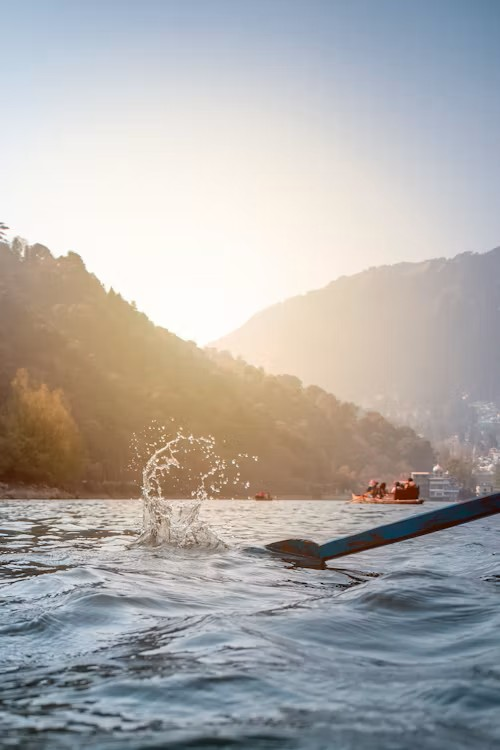
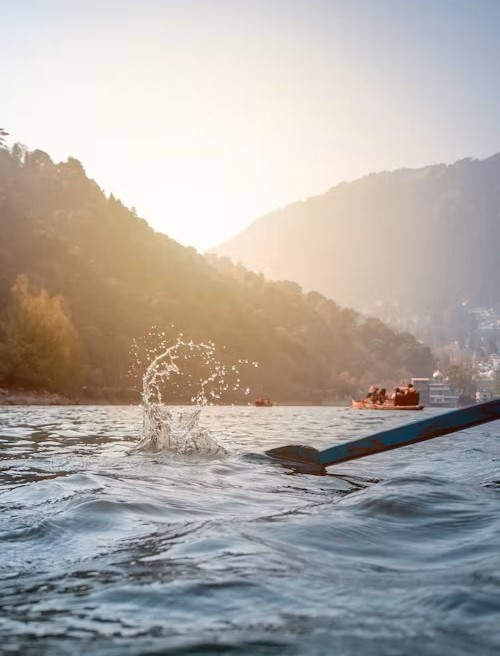
changed hero img contact page

diff --git a/wwr/contact.html b/wwr/contact.html
@@ -80,24 +80,27 @@
                     <button type="submit">Get in touch</button>
                 </form>
             </div>
-        </div>
 
-        <!-- EMPLOYEE PICTURE-->
-        <section class="history ">
-            <h2>We are here to serve you</h2>
-            <figure>
-                <img src="images/employee-1.jpg" alt="Employee 1 a girl employee">
-                <figcaption>Constance Jhonson - Guide</figcaption>
-            </figure>
-            <figure>
-                <img src="images/employee-3.jpg" alt="happy employee in the river">
-                <figcaption>Emily Mayers - Lead guide</figcaption>
-            </figure>
-            <figure>
-                <img src="images/hero-img/employee-2.jpg" alt="male employee in front of the river">
-                <figcaption>John Stone - Director</figcaption>
-            </figure>
-        </section>
+            <div class="move">
+                <!-- EMPLOYEE PICTURE-->
+                <section class="history hhhhhh">
+                    <h2>We are here to serve you</h2>
+                    <figure>
+                        <img src="images/employee-1.jpg" alt="Employee 1 a girl employee">
+                        <figcaption>Constance Jhonson - Guide</figcaption>
+                    </figure>
+                    <figure>
+                        <img src="images/employee-3.jpg" alt="happy employee in the river">
+                        <figcaption>Emily Mayers - Lead guide</figcaption>
+                    </figure>
+                    <figure>
+                        <img src="images/hero-img/employee-2.jpg"
+                          alt="male employee in front of the river">
+                        <figcaption>John Stone - Director</figcaption>
+                    </figure>
+                </section>
+            </div>
+        </div>
     </main>
 
     <footer>

diff --git a/wwr/styles/rafting2.css b/wwr/styles/rafting2.css
@@ -158,7 +158,7 @@ header nav {
 .map,
 form {
     display: flex;
-    margin-top: 170px;
+    margin-top: 200px;
     position: relative;
     padding: 1rem;
     flex: 50%;
@@ -226,7 +226,7 @@ section h2 {
     text-align: left;
     padding: 16px;
     /*border: 1px solid var(--fourth-color);*/
-    background-color: var(--fifth-color);
+    background-color: var(--color-background);
     opacity: 0.9;
     width: 100%;
     display: grid;
@@ -266,4 +266,22 @@ footer img {
 
 .socialmedia a {
     text-decoration: none;
+}
+
+.hhhhhh {
+    position: relative;
+    background-color: var(--color-background);
+    align-self: auto;
+}
+
+.hhhhhh img {
+    padding: 16px;
+    width: 125px;
+    height: auto;
+}
+
+.move {
+    position: absolute;
+    width: 100%;
+    margin-top: 800px;
 }
